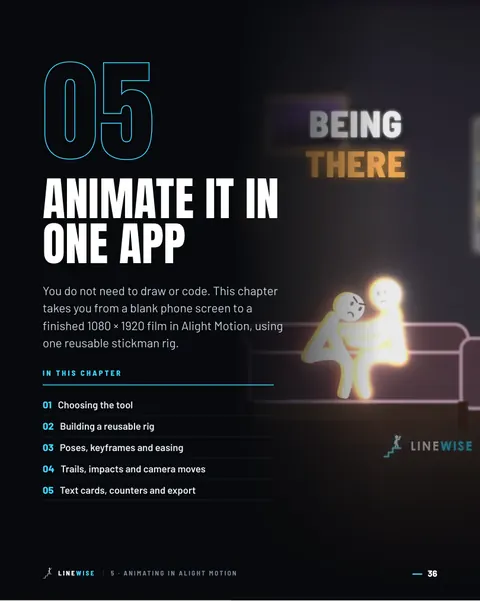
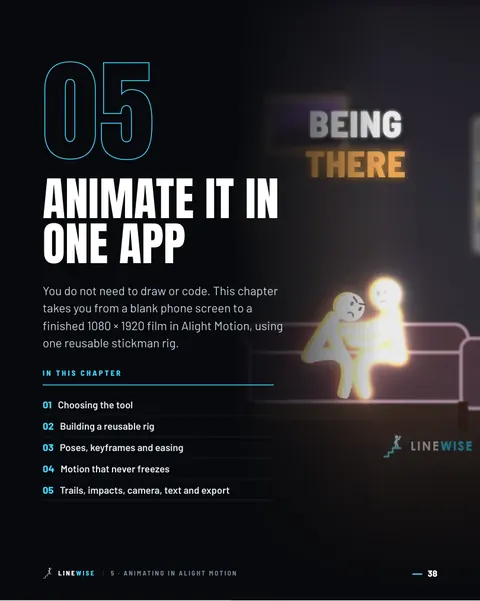
E-book 2nd edition: serve v2 files, update page counts and chapter list
- FILES point at v2/ keys in linewise-products (v1 left in place)
- 90-page e-book, 13-page Bonus Pack, 7 templates, 2nd edition (Nov 2026)
- Home, checkout, FAQ and metadata counts; chapter summaries
- Page previews re-rendered for the changed pages

Changed region(s): [[0.125, 0.7488, 0.4688, 0.8386]]

diff --git a/lib/content.ts b/lib/content.ts
@@ -2,14 +2,14 @@
 
 export const CHAPTERS = [
   { n: '01', img: 'ch1', t: 'Why stickman shorts go viral', d: 'The format spec, the two winning shapes and our research data.' },
-  { n: '02', img: 'ch2', t: 'Ideas', d: 'The 8 pillars, visual metaphors and 50 starter concepts.' },
-  { n: '03', img: 'ch3', t: 'Storyboarding', d: 'The scene template, hooks, loops and a frame-by-frame worked example.' },
+  { n: '02', img: 'ch2', t: 'Ideas', d: 'The 8 pillars, four lanes that work, visual metaphors and 50 starter concepts.' },
+  { n: '03', img: 'ch3', t: 'Storyboarding', d: 'The scene template, hooks, on-screen proof, loops and a frame-by-frame worked example.' },
   { n: '04', img: 'ch4', t: 'The look', d: 'Palette, light, depth, readable text, safe zones and lessons learned.' },
-  { n: '05', img: 'ch5', t: 'Animating step by step', d: 'One app, one rig: keyframes, easing, trails, impacts, camera, export.' },
-  { n: '06', img: 'ch6', t: 'Sound', d: 'SFX layering, cutting to BPM and drops, licensing and Content ID.' },
-  { n: '07', img: 'ch7', t: 'Posting and growth', d: 'Cadence, scheduling, captions, timing and the numbers that matter.' },
-  { n: '08', img: 'ch8', t: 'Monetisation', d: 'Realistic payouts, brand deals, products, affiliates and custom work.' },
-  { n: '09', img: 'ch9', t: 'Bonus: the code and AI pipeline', d: 'Concepts and architecture of an automated stickman studio.' },
+  { n: '05', img: 'ch5', t: 'Animating step by step', d: 'One app, one rig: keyframes, easing, motion that never freezes, trails, camera, export.' },
+  { n: '06', img: 'ch6', t: 'Sound', d: 'SFX layering, cutting to the drop, music licensing, credit lines and Content ID.' },
+  { n: '07', img: 'ch7', t: 'Posting and growth', d: 'Three a day, scheduling limits, captions, hashtag caps, staying original and the numbers that matter.' },
+  { n: '08', img: 'ch8', t: 'Monetisation', d: 'Realistic payouts (including the 2027 YouTube thresholds), brand deals, products and custom work.' },
+  { n: '09', img: 'ch9', t: 'Bonus: the code and AI pipeline', d: 'Architecture, quality gates and a render farm for an automated stickman studio.' },
 ] as const;
 
 export const PAGE_PREVIEWS = [
@@ -26,7 +26,7 @@ export const PAGE_PREVIEWS = [
 ] as const;
 
 export const FAQ = [
-  { q: 'What exactly do I get?', a: 'Two PDFs. The 82-page e-book: 9 chapters plus the bonus pack. And the Bonus Pack again as a separate 12-page printable PDF: two storyboard sheets, 50 starter concepts, an SFX cue sheet, a text-card style guide, a 30-day posting calendar, a pre-publish checklist and a media-kit template. You download both straight after payment.' },
+  { q: 'What exactly do I get?', a: 'Two PDFs. The 90-page e-book (2nd edition, November 2026): 9 chapters plus the bonus pack. And the Bonus Pack again as a separate 13-page printable PDF: two storyboard sheets, 50 starter concepts, an SFX cue sheet, a text-card style guide, a 30-day posting calendar (three a day), a pre-publish checklist, a media-kit template and caption, hashtag and credit blocks. You download both straight after payment.' },
   { q: 'Do I need to be able to draw or code?', a: 'No. The format is flat 2D stick figures on a near-black background. Chapter 5 teaches the whole animation workflow in one phone app, step by step. Chapter 9 explains how we automate production with code and AI, but it is an optional extra for later.' },
   { q: 'What equipment do I need?', a: 'A phone or a basic computer. The book works with free or cheap tools; it names the app we use and shows each step.' },
   { q: 'Will this make me money or get me views?', a: 'We cannot promise that, and nobody honest can. The book shows what the most-watched films in the genre have in common and how we make ours. Results depend on your work, your niche, timing and luck. Chapter 8 sets out realistic payouts so you can judge for yourself.' },

diff --git a/app/page.tsx b/app/page.tsx
@@ -34,7 +34,7 @@ function JsonLd() {
         '@type': ['Product', 'Book'],
         '@id': `${SITE_URL}/#book`,
         name: PRODUCT.fullName,
-        description: 'The complete system for wordless stickman Shorts, from first idea to a channel that grows. 82 pages, 9 chapters, 50 starter concepts, 6 printable templates. No drawing needed.',
+        description: 'The complete system for wordless stickman Shorts, from first idea to a channel that grows. 90 pages, 9 chapters, 50 starter concepts, 7 printable templates. No drawing needed.',
         image: [`${SITE_URL}/img/cover-800.webp`, `${SITE_URL}/opengraph-image.jpg`],
         brand: { '@type': 'Brand', name: 'Linewise' },
         author: { '@type': 'Organization', name: 'Linewise' },
@@ -81,7 +81,7 @@ export default function Home() {
               <h1 id="hero-title" className="display">How to make <span className="cy">viral stickman</span> Shorts</h1>
               <p className="lead">The complete system, from first idea to a channel that grows. Wordless 30-second films you can make in one phone app.</p>
               <ul className="facts" aria-label="What you get">
-                <li><b>82</b> pages</li><li><b>9</b> chapters</li><li><b>50</b> starter concepts</li><li><b>6</b> printable templates</li>
+                <li><b>90</b> pages</li><li><b>9</b> chapters</li><li><b>50</b> starter concepts</li><li><b>7</b> printable templates</li>
               </ul>
               <div className="cta-row" id="hero-cta">
                 <Link href="/checkout" className="btn btn-cy btn-xl">Get the e-book <span className="price">{PRODUCT.priceLabel}</span></Link>
@@ -279,8 +279,8 @@ export default function Home() {
                 </div>
               </div>
               <ul className="b">
-                <li><b>The e-book:</b> 82 pages, 9 chapters, PDF</li>
-                <li><b>The Bonus Pack:</b> 12-page printable PDF with 6 templates</li>
+                <li><b>The e-book:</b> 90 pages, 9 chapters, PDF (2nd edition, November 2026)</li>
+                <li><b>The Bonus Pack:</b> 13-page printable PDF with 7 templates</li>
                 <li><b>50 starter concepts</b> you can storyboard today</li>
                 <li><b>Chapter 9:</b> our code and AI pipeline, explained</li>
                 <li>Personal download page for 30 days, up to 15 downloads</li>

diff --git a/lib/site.ts b/lib/site.ts
@@ -19,12 +19,12 @@ export const PRODUCT = {
   price: '19.99',
   priceLabel: '£19.99',
   currency: 'GBP',
-  pages: 82,
+  pages: 90,
   chapters: 9,
   concepts: 50,
-  templates: 6,
-  bonusPages: 12,
-  edition: 'First edition, November 2026',
+  templates: 7,
+  bonusPages: 13,
+  edition: '2nd edition, November 2026',
   published: '2026-11',
 } as const;
 
@@ -46,7 +46,7 @@ export const DOWNLOAD_LIMITS = {
 };
 
 export const FILES = {
-  book: { key: 'v1/linewise-how-to-make-viral-stickman-shorts.pdf', filename: 'Linewise - How to Make Viral Stickman Shorts.pdf', label: 'The e-book (PDF, 82 pages)' },
-  bonus: { key: 'v1/linewise-bonus-pack-templates.pdf', filename: 'Linewise - Bonus Pack Templates.pdf', label: 'The bonus pack (PDF, 12 pages)' },
+  book: { key: 'v2/linewise-how-to-make-viral-stickman-shorts.pdf', filename: 'Linewise - How to Make Viral Stickman Shorts (2nd edition).pdf', label: 'The e-book (PDF, 90 pages)' },
+  bonus: { key: 'v2/linewise-bonus-pack-templates.pdf', filename: 'Linewise - Bonus Pack Templates (2nd edition).pdf', label: 'The bonus pack (PDF, 13 pages)' },
 } as const;
 export type FileId = keyof typeof FILES;

diff --git a/app/layout.tsx b/app/layout.tsx
@@ -6,7 +6,7 @@ export const metadata: Metadata = {
   metadataBase: new URL(SITE_URL),
   title: { default: 'How to Make Viral Stickman Shorts: the Linewise e-book (£19.99)', template: '%s | Linewise' },
   description:
-    'The complete system for wordless stickman Shorts, from first idea to a channel that grows. 82 pages, 9 chapters, 50 starter concepts and 6 printable templates. No drawing needed. £19.99 PDF.',
+    'The complete system for wordless stickman Shorts, from first idea to a channel that grows. 90 pages, 9 chapters, 50 starter concepts and 7 printable templates. No drawing needed. £19.99 PDF.',
   applicationName: 'Linewise',
   authors: [{ name: 'Linewise' }],
   publisher: 'Blackwellen Ltd',

diff --git a/app/checkout/page.tsx b/app/checkout/page.tsx
@@ -46,7 +46,7 @@ export default async function Checkout({ searchParams }: { searchParams: Promise
                 <img src="/img/cover-480.webp" alt="" width={76} height={106} />
                 <div>
                   <b>{PRODUCT.name}</b>
-                  <p className="small mute" style={{ margin: 0 }}>Linewise e-book (PDF, 82 pages) + Bonus Pack (PDF, 12 pages)</p>
+                  <p className="small mute" style={{ margin: 0 }}>Linewise e-book (PDF, 90 pages) + Bonus Pack (PDF, 13 pages)</p>
                 </div>
               </div>
               <div className="totals"><span>E-book + Bonus Pack</span><span>{PRODUCT.priceLabel}</span></div>

diff --git a/components/Client.tsx b/components/Client.tsx
@@ -23,7 +23,7 @@ export function StickyCta({ price }: { price: string }) {
   }, []);
   return (
     <div className={`sticky${on ? ' on' : ''}`} aria-hidden={!on}>
-      <div className="t"><b>How to Make Viral Stickman Shorts</b>82-page PDF + bonus pack</div>
+      <div className="t"><b>How to Make Viral Stickman Shorts</b>90-page PDF + bonus pack</div>
       <a href="/checkout" className="btn btn-cy" tabIndex={on ? 0 : -1}>Get it · {price}</a>
     </div>
   );
